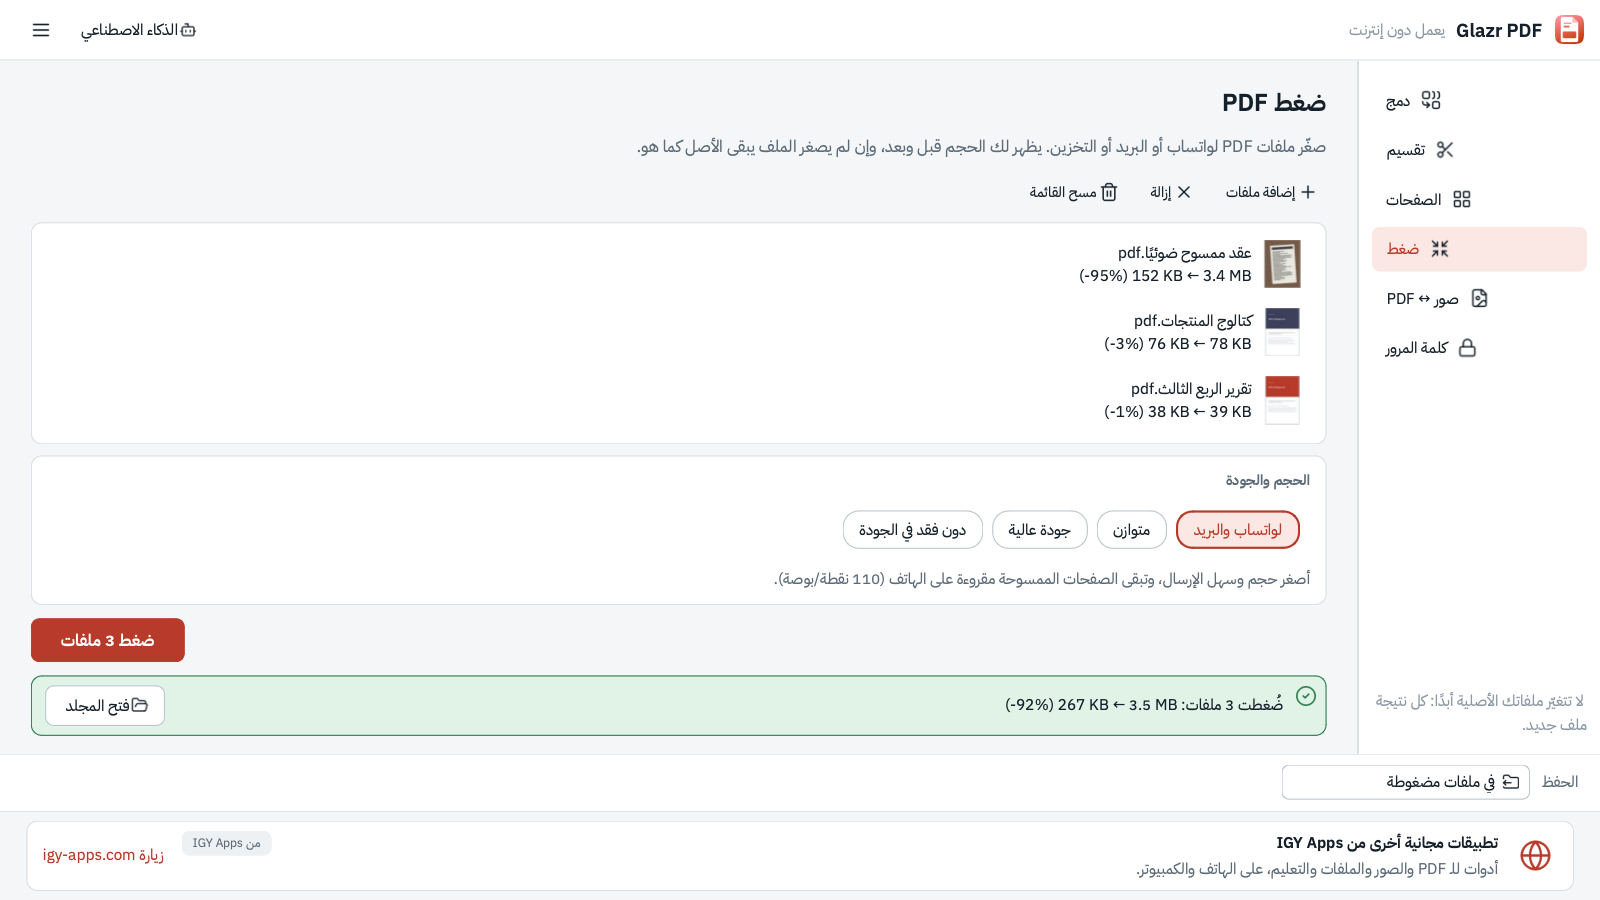
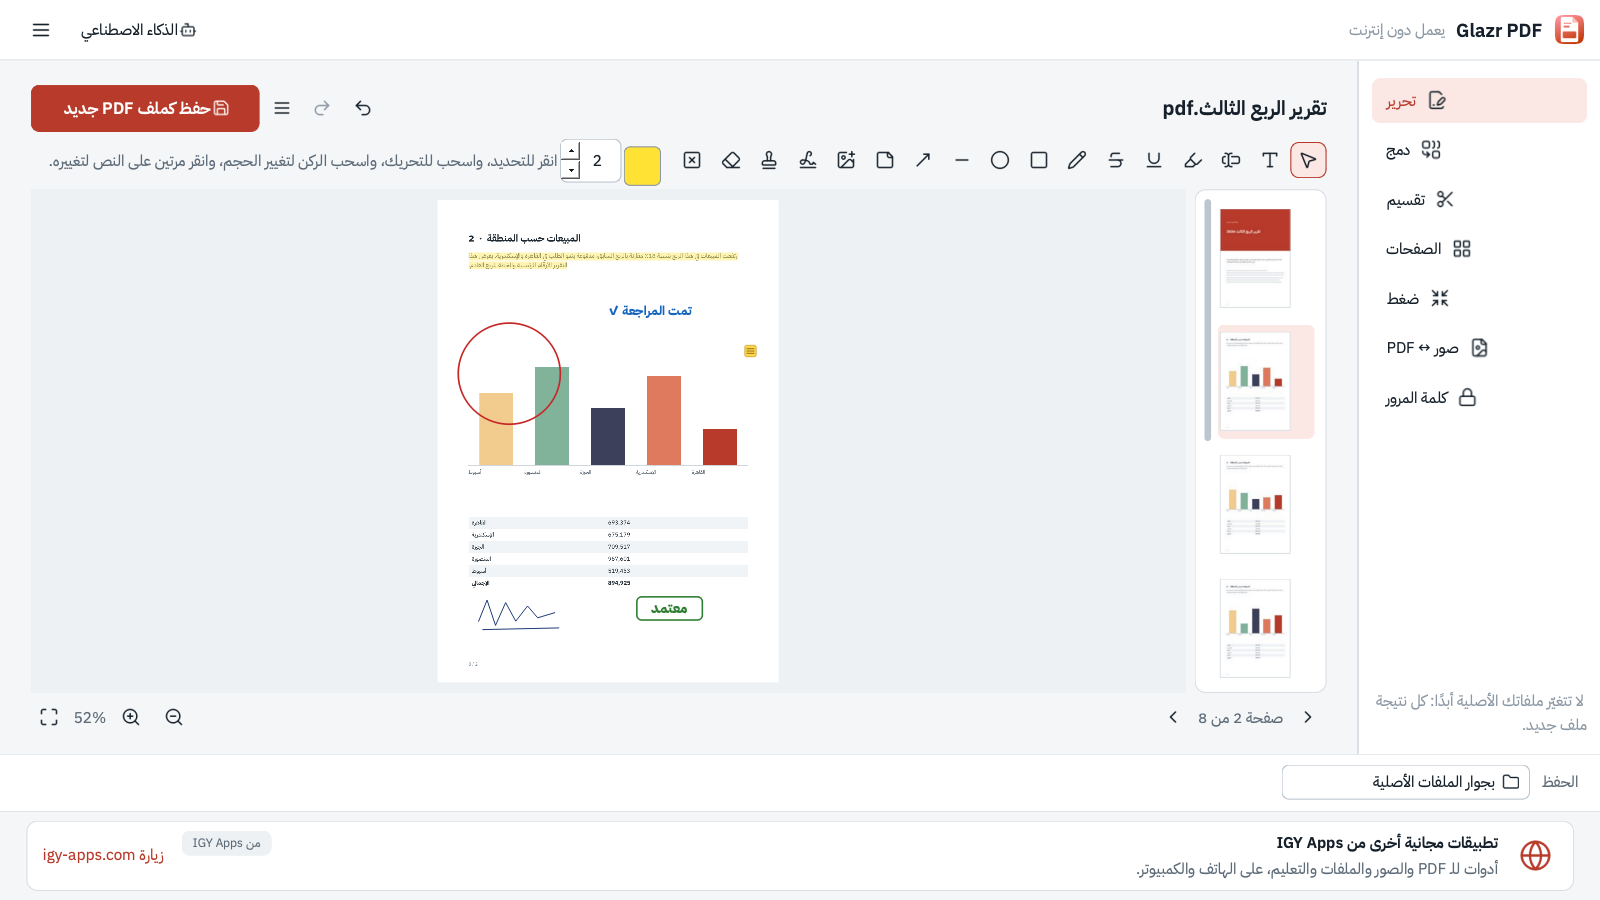
Glazr PDF 1.1: the editor (README en/ar, privacy note on saved signatures, screenshots)

diff --git a/README.md b/README.md
@@ -2,12 +2,16 @@
 
 # Glazr PDF
 
-Free PDF tools for **macOS** and **Windows** by [IGY Apps](https://igy-apps.com).
+Free PDF editor and tools for **macOS** and **Windows** by [IGY Apps](https://igy-apps.com).
 
+- **Edit** (new in 1.1): add text (Arabic too) and change existing lines, highlight, underline and
+  strike, draw, shapes, notes, pictures and stamps; **sign** (draw, type or a picture); **fill
+  forms**; **redact** private information for real (it leaves the file); watermark and page numbers.
 - **Merge** PDFs and pictures into one PDF, in the order you choose (drag to reorder).
 - **Split** a PDF into single pages, every N pages or the ranges you type, or keep only the pages
   you need.
-- **Pages:** see every page as a thumbnail, then reorder, turn or delete pages and save a new PDF.
+- **Pages:** see every page as a thumbnail, then reorder, turn, delete, duplicate or crop pages,
+  insert blank pages or pages from another PDF, and save a new PDF.
 - **Compress** PDFs for WhatsApp and email, with the size before and after; when a file can't get
   smaller, the original is kept.
 - **Pictures ↔ PDF:** photos and scans to one PDF (page size, orientation, margins), or PDF pages
@@ -36,6 +40,7 @@ On macOS the command line is the program inside the app:
 
 ```bash
 "/Applications/Glazr PDF.app/Contents/MacOS/Glazr PDF" merge ~/Documents/a.pdf ~/Documents/b.pdf --json
+"/Applications/Glazr PDF.app/Contents/MacOS/Glazr PDF" add-text ~/Documents/a.pdf --text "Approved" --position top-right --json
 ```
 
 This repository holds downloads only. The application's source code is not public.
@@ -63,8 +68,11 @@ private documents.
 
 # Glazr PDF بالعربية
 
-أدوات PDF مجانية على **ماك** و**ويندوز** من [IGY Apps](https://igy-apps.com).
+محرر PDF وأدوات مجانية على **ماك** و**ويندوز** من [IGY Apps](https://igy-apps.com).
 
+- **التحرير** (جديد في 1.1): أضف نصًا بالعربية وعدّل السطور الموجودة، وظلّل وسطّر واشطب، وارسم وأضف
+  أشكالًا وملاحظات وصورًا وأختامًا، **ووقّع** بالرسم أو الكتابة أو بصورة، **واملأ النماذج**، **واحجب**
+  المعلومات الخاصة حجبًا حقيقيًا، وأضف علامة مائية وأرقام صفحات.
 - **دمج** ملفات PDF والصور في ملف PDF واحد بالترتيب الذي تختاره (رتّبها بالسحب).
 - **تقسيم** ملف PDF إلى صفحات منفردة أو كل عدد من الصفحات أو نطاقات تكتبها، أو الاحتفاظ بالصفحات
   التي تحتاجها فقط.

diff --git a/PRIVACY.md b/PRIVACY.md
@@ -8,6 +8,7 @@ GitHub, the Microsoft Store or links on igy-apps.com. Publisher: IGY Apps (igy-a
 The app merges, splits, compresses, converts and protects PDFs and pictures on your computer.
 Your files, their contents, file names, folders and passwords are never uploaded, sent or
 shared. Passwords you type are used only to open or protect the file and are never stored.
+Signatures you choose to remember are stored only in your user folder on this computer.
 
 ## What the app sends when online
 
@@ -60,7 +61,7 @@ on this page with a new date.
 
 **ملفاتك لا تغادر جهازك.** البرنامج يدمج ملفات PDF والصور ويقسّمها ويضغطها ويحوّلها ويحميها على جهازك،
 ولا يرفع أو يرسل أي ملف أو محتواه أو اسمه أو مجلده أو كلمة مروره. كلمات المرور التي تكتبها تُستخدم
-لفتح الملف أو حمايته فقط ولا تُحفظ.
+لفتح الملف أو حمايته فقط ولا تُحفظ. والتوقيعات التي تختار حفظها تبقى في مجلد المستخدم على هذا الكمبيوتر فقط.
 
 **مع الإنترنت** تطلب النافذة من igy-apps.com إعلانًا واحدًا لأسفل النافذة ورقم أحدث إصدار،
 ويُرسل فقط: اسم البرنامج، والنظام (ويندوز أو ماك)، ولغة البرنامج، ومصدر التثبيت (متجر أو تنزيل
